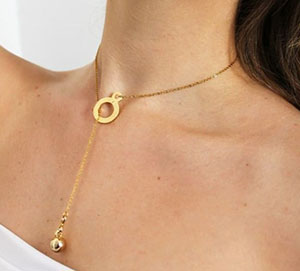
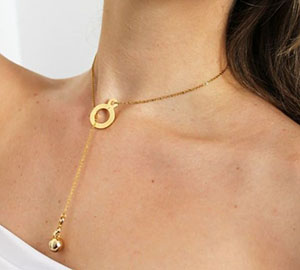
arregle las fotos de accesorios y les agregue un efecto

diff --git a/index.html b/index.html
@@ -112,16 +112,12 @@
     <section class="container">
       <div class="row">
         <div class="col-lg-6 col-xs-6 p-0">
-          <img src="assets/images/muestraAccesorios/Screenshot_20210521-113420.png" class="img-fluid" alt="codigo 10">
+          <img src="assets/images/muestraAccesorios/Screenshot_20210521-113420.png" class="img-fluid img__graytransform__animaciones" alt="codigo 10">
         </div>
         <div class="col-lg-6 col-xs-6 p-0">
-          <img src="assets/images/muestraAccesorios/imagenLarga2.jpg" class="img-fluid" alt="codigo 11">
-              <div class="col-lg-3 p-0">
-                <img src="assets/images/muestraAccesorios/imagenChica3.jpg" class="img-fluid" alt="codigo 12">
-              </div>
-              <div class="col-lg-3 p-0">
-                <img src="assets/images/muestraAccesorios/imagenChica4.jpg" class="img-fluid" alt="codigo 13">
-              </div>
+          <img src="assets/images/muestraAccesorios/imagenLarga2.jpg" class="img-fluid img__graytransform__animaciones" alt="codigo 11">
+          <img src="assets/images/muestraAccesorios/imagenChica3.jpg" class="img-fluid d-inline img__w50__espacio img__graytransform__animaciones" alt="codigo 12">
+          <img src="assets/images/muestraAccesorios/imagenChica4.jpg" class="img-fluid d-inline img__w49__espacio img__graytransform__animaciones" alt="codigo 13">
         </div>
       </div>
     </section>

diff --git a/css/estilo.css b/css/estilo.css
@@ -132,6 +132,13 @@
   margin-right: 0px;
   padding: 0px; }
 
+/* Imagenes */
+.img__w50__espacio {
+  width: 50%; }
+
+.img__w49__espacio {
+  width: 49%; }
+
 /* Footer */
 .footer__margin__espacio {
   margin-top: 45px;
@@ -168,3 +175,12 @@
       height: 400px; } }
 
 /* Imagenes Accesorios */
+.img__graytransform__animaciones {
+  filter: grayscale(0.5) brightness(0.5);
+  transition: 0.5s linear; }
+  @media only screen and (max-width: 768px) {
+    .img__graytransform__animaciones {
+      filter: grayscale(0) brightness(1); } }
+
+.img__graytransform__animaciones:hover {
+  filter: grayscale(0) brightness(1); }

diff --git a/scss/_animacion.scss b/scss/_animacion.scss
@@ -10,4 +10,14 @@
 }
 
 /* Imagenes Accesorios */
+.img__graytransform__animaciones{
+    filter: grayscale(0.5) brightness(0.5);
+    transition: 0.5s linear;
+    @media only screen and (max-width: 768px){
+        filter: grayscale(0) brightness(1);
+    }
+}
 
+.img__graytransform__animaciones:hover{
+    filter: grayscale(0) brightness(1);
+}

diff --git a/scss/_espacio.scss b/scss/_espacio.scss
@@ -57,6 +57,14 @@
     padding: 0px;
 }
 
+/* Imagenes */
+.img__w50__espacio{
+    width: 50%
+}
+.img__w49__espacio{
+    width: 49%;
+}
+
 /* Footer */
 .footer__margin__espacio{
     margin-top: 45px;
